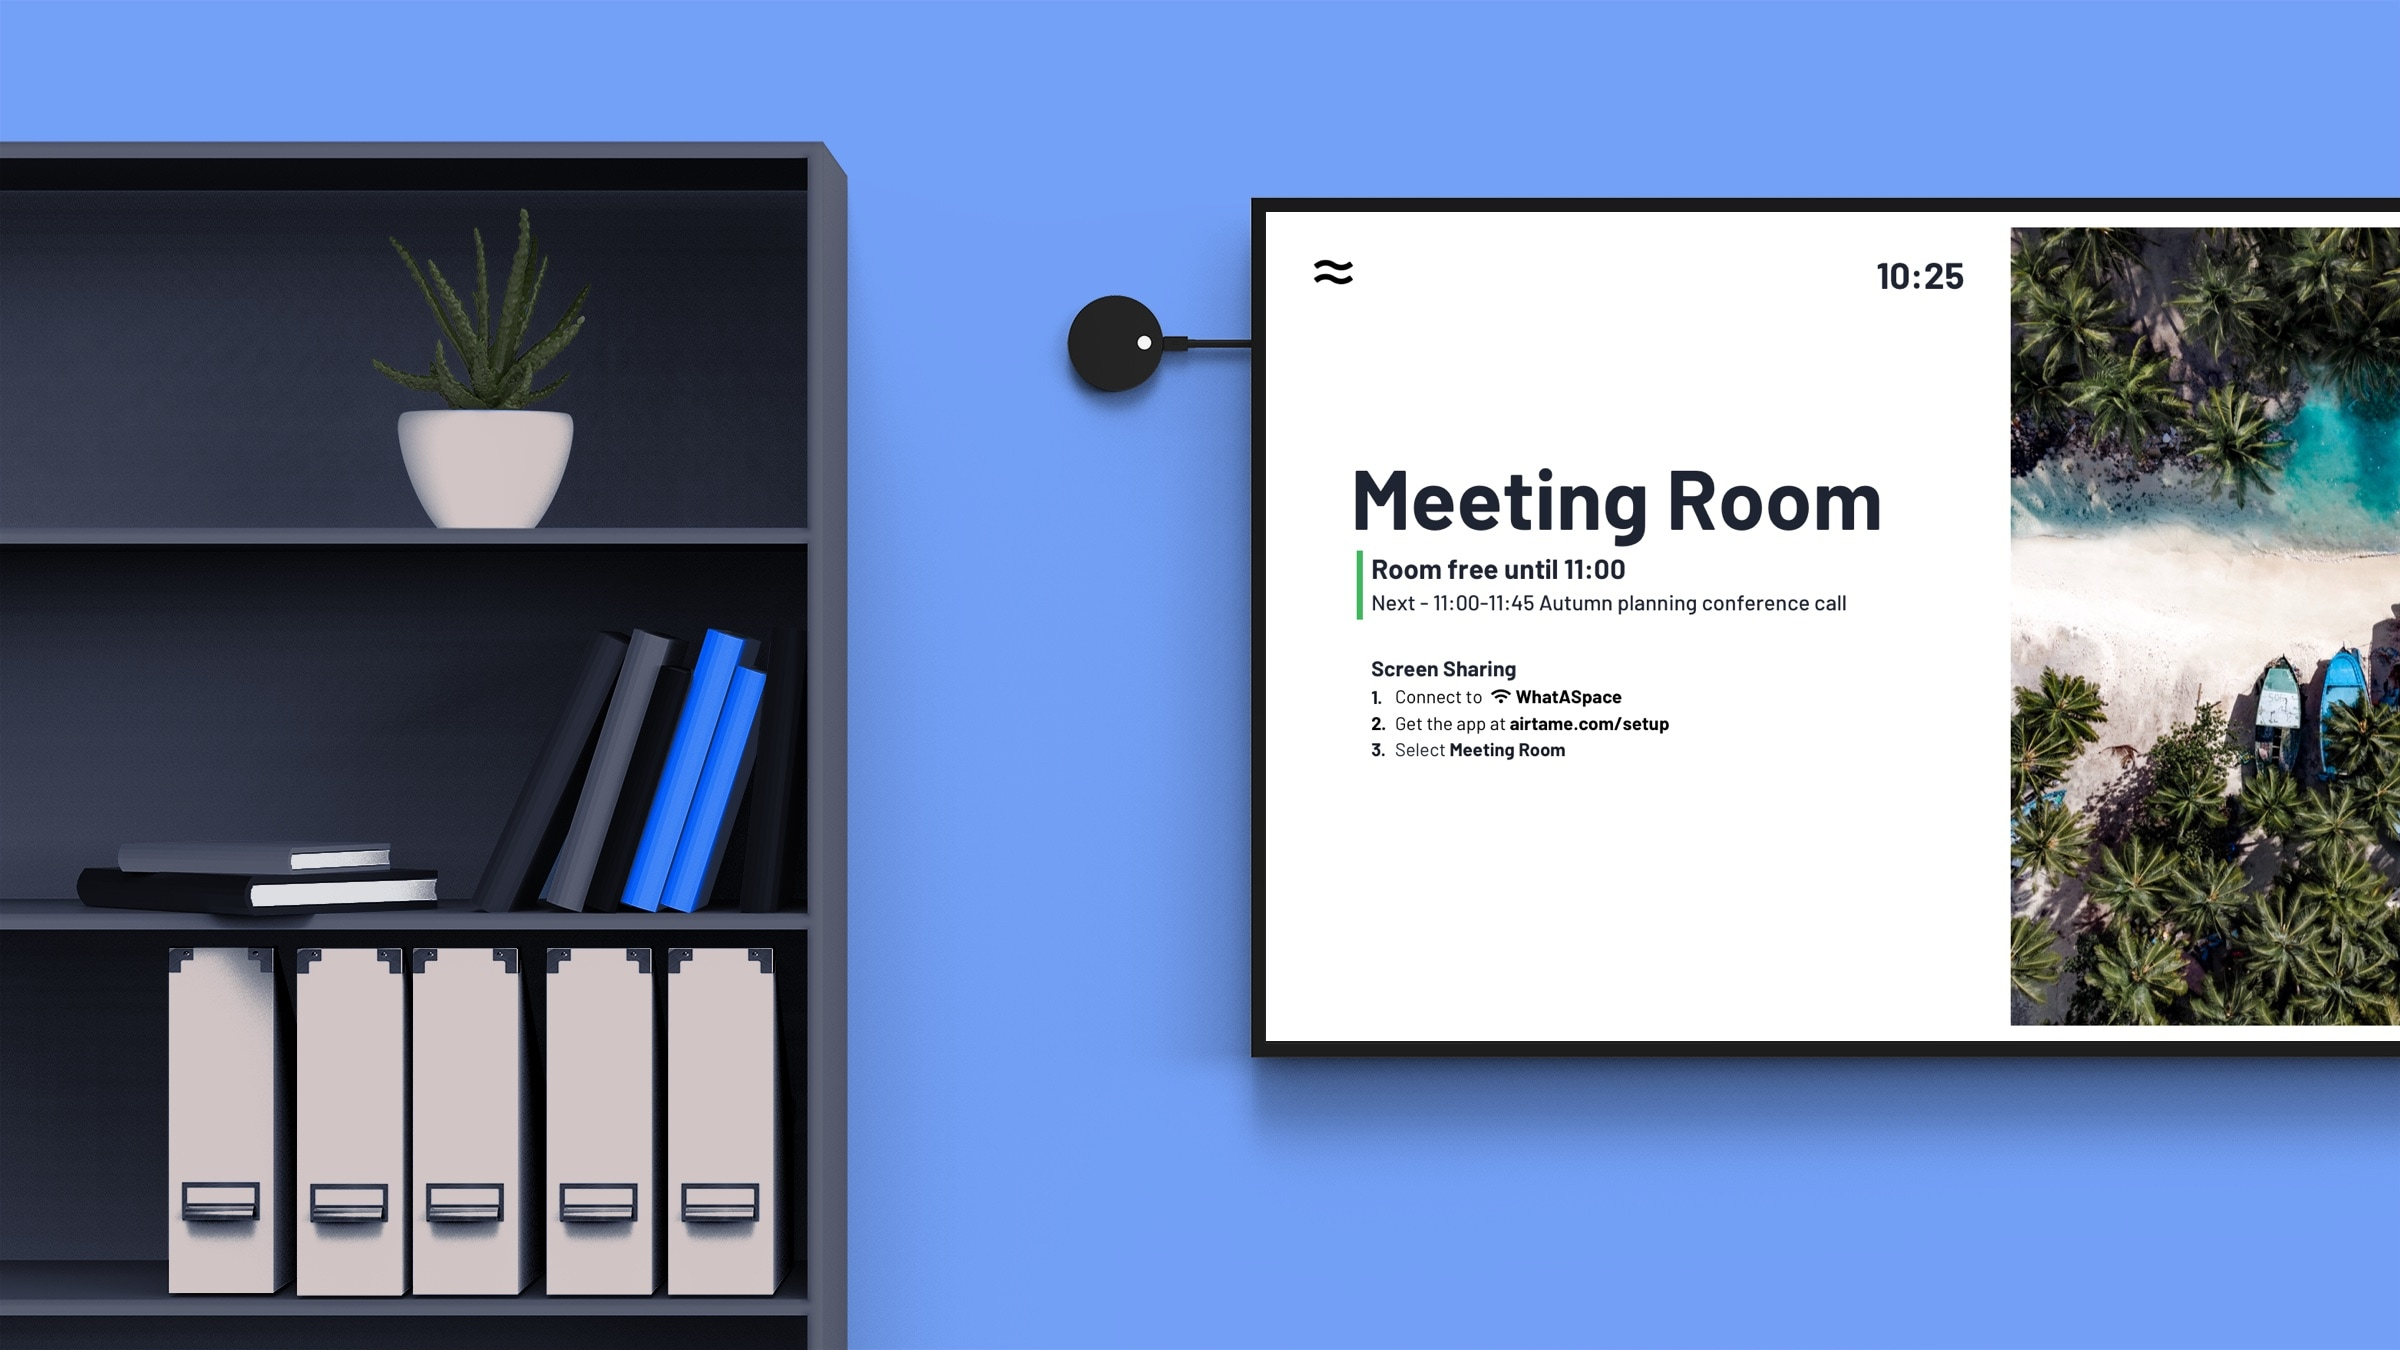
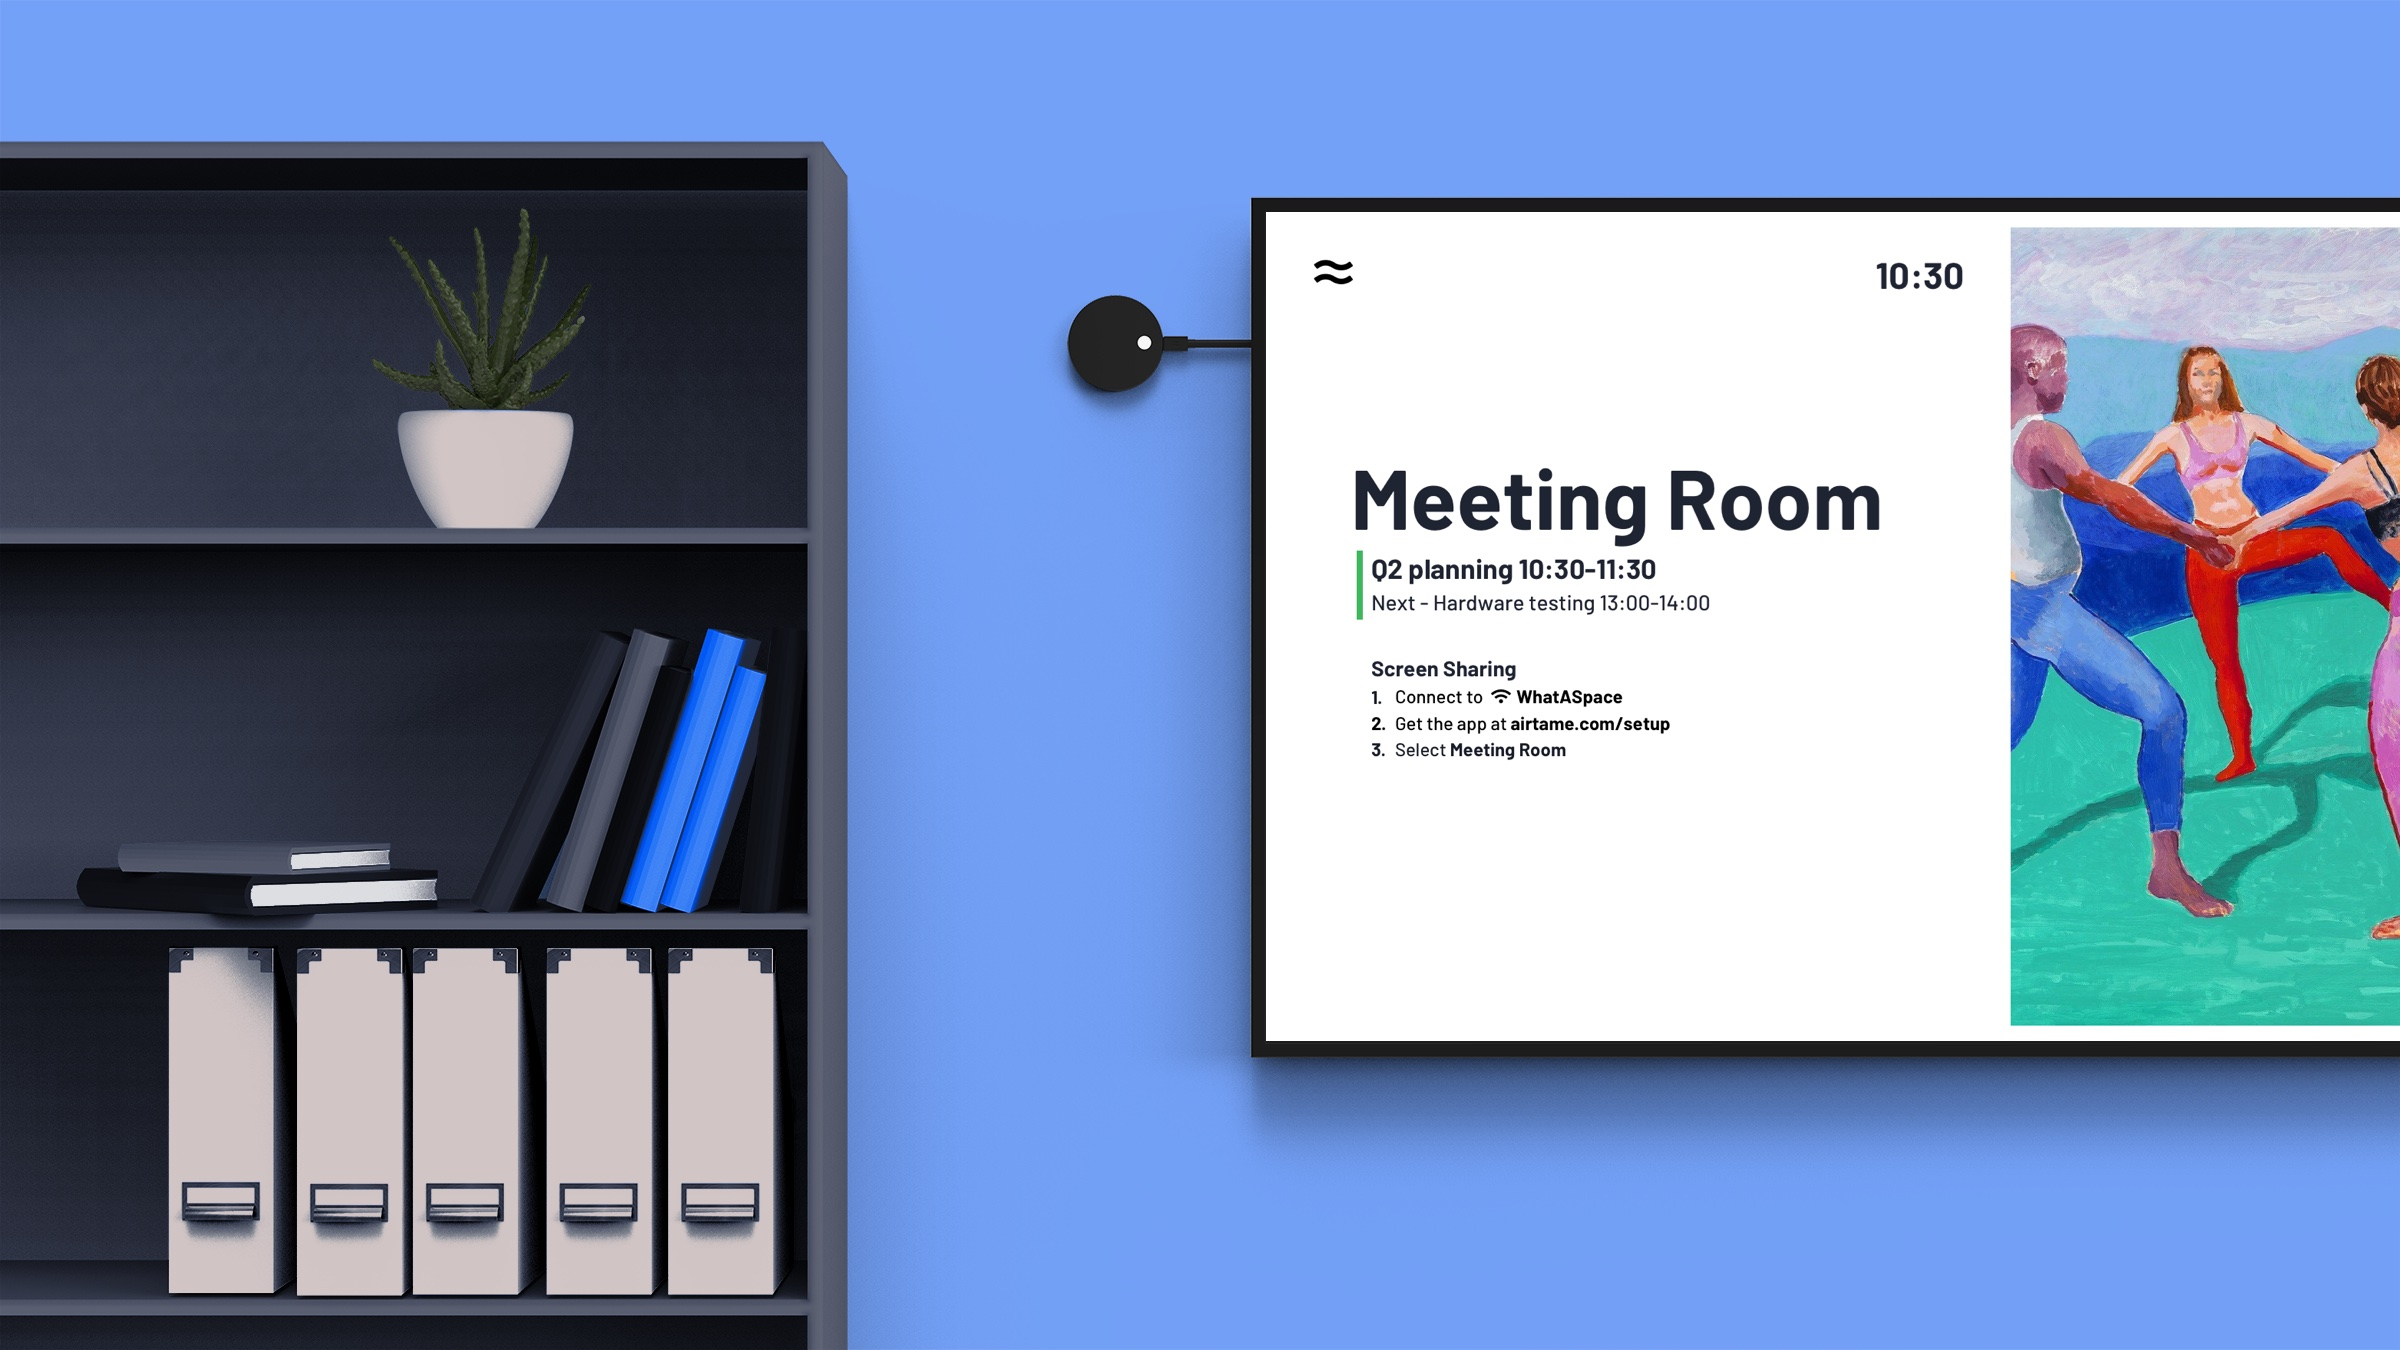
Updated imagery and portfolio page

Changed region(s): [[0.7812, 0.1556, 1.0, 0.7778], [0.5625, 0.4044, 0.7812, 0.4667], [0.5938, 0.4978, 0.6875, 0.56]]

diff --git a/portfolio.html b/portfolio.html
@@ -39,10 +39,10 @@
                 <div class="col-md-6">
                     <h3>Current work</h3>
                     <p>I lead the design for Airtame's Cloud Platform. Airtame Cloud enables people to use screens better through engaging digital signage and supercharging device monitoring and management.</p>
-                    <p><strong>Case study -</strong> <a href="airtame-homescreen.html">designing the new Airtame Homescreen</a></p>
+                    <p><strong>Case study -</strong> <a href="airtame-homescreen.html">Designing the new Airtame Homescreen</a></p>
                 </div>
                 <div class="col-md-6 tile my-auto"><a href="airtame-homescreen.html" id="airtame-thumbnail">
-                        <img src="assets/img/airtame-homescreen.png" class="img-fluid" alt="Airtame Homescreen"></a></div>
+                        <img src="assets/img/airtame-homescreen-thumb.jpg" class="img-fluid" alt="Airtame Homescreen"></a></div>
             </div>
         </div>
     </div>
